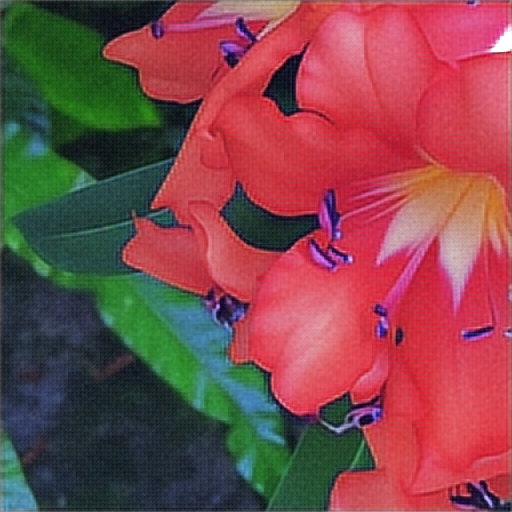
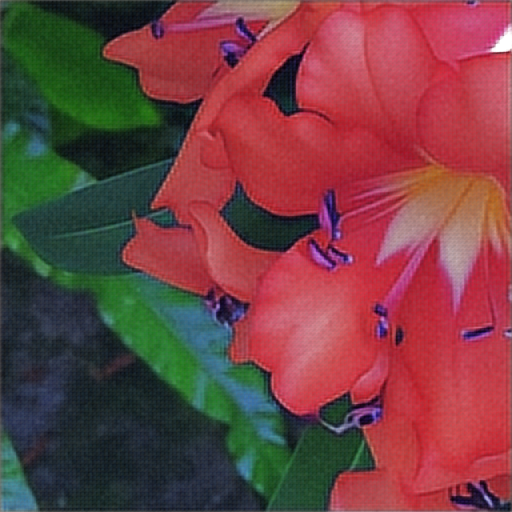
test single view

diff --git a/ext_experiments/single_view_diffusion_sr_x0_test_ofd.py b/ext_experiments/single_view_diffusion_sr_x0_test_ofd.py
@@ -13,7 +13,7 @@ from easydict import EasyDict
 
 img_path = './test_imgs/llff_flower.png'
 iters = 50000
-save_path = './test_imgs/llff_flower_x0_fromnoise.png'
+save_path = './test_imgs/llff_flower_x0_fromnoise_t200.png'
 save_iters = 1 
 device = torch.device('cuda')
 
@@ -49,13 +49,13 @@ if __name__ == '__main__':
     
     for i in tqdm(range(iters)):
         with torch.no_grad():
-            # pred_rgb.clamp_(0.0, 1.0)
-            pred_rgb -= pred_rgb.min()
-            pred_rgb /= (pred_rgb.max() - pred_rgb.min() + 1e-10)
+            pred_rgb.clamp_(0.0, 1.0)
+            # pred_rgb -= pred_rgb.min()
+            # pred_rgb /= (pred_rgb.max() - pred_rgb.min() + 1e-10)
 
         optimizer.zero_grad()
         step = random.randint(20, 980)
-        loss, x0 = guidance.img_sr_x0(prompts='', image=cond_img, init_image=pred_rgb, from_step=980, output_type='tensor', score_type='image')
+        loss, x0 = guidance.img_sr_x0(prompts='', image=cond_img, init_image=pred_rgb, from_step=200, output_type='tensor', score_type='image')
         loss.backward()
         # print(f'pred_rgb grad : {pred_rgb.grad}')
         # import pdb; pdb.set_trace()
@@ -68,7 +68,7 @@ if __name__ == '__main__':
             pred_rgb_detach.save(save_path)
             x0 = x0.detach().cpu().permute(0, 2, 3, 1).float().numpy()
             x0 = guidance.numpy_to_pil(x0)[0]
-            x0.save('./test_imgs/x0_sr.png')
+            x0.save('./test_imgs/x0_sr_200.png')
         if i % 1000 == 0 and i != 0:
             print(f'loss : {sum(grad_list) / len(grad_list)}')
             grad_list.clear()

diff --git a/ext_experiments/single_view_diffusion_sr.py b/ext_experiments/single_view_diffusion_sr.py
@@ -50,7 +50,9 @@ if __name__ == '__main__':
     for i in pbar:
         optimizer.zero_grad()
         with torch.no_grad():
-            pred_rgb.clamp_(0.0, 1.0)
+            pred_rgb -= pred_rgb.min()
+            pred_rbg /= (pred_rgb.max() - pred_rgb.min())
+            # pred_rgb.clamp_(0.0, 1.0)
 
         pred_rgb.requires_grad_(True)
         loss, grad = guidance.train_step(opt, data, condition_dict, pred_rgb, guidance_scale=0)
